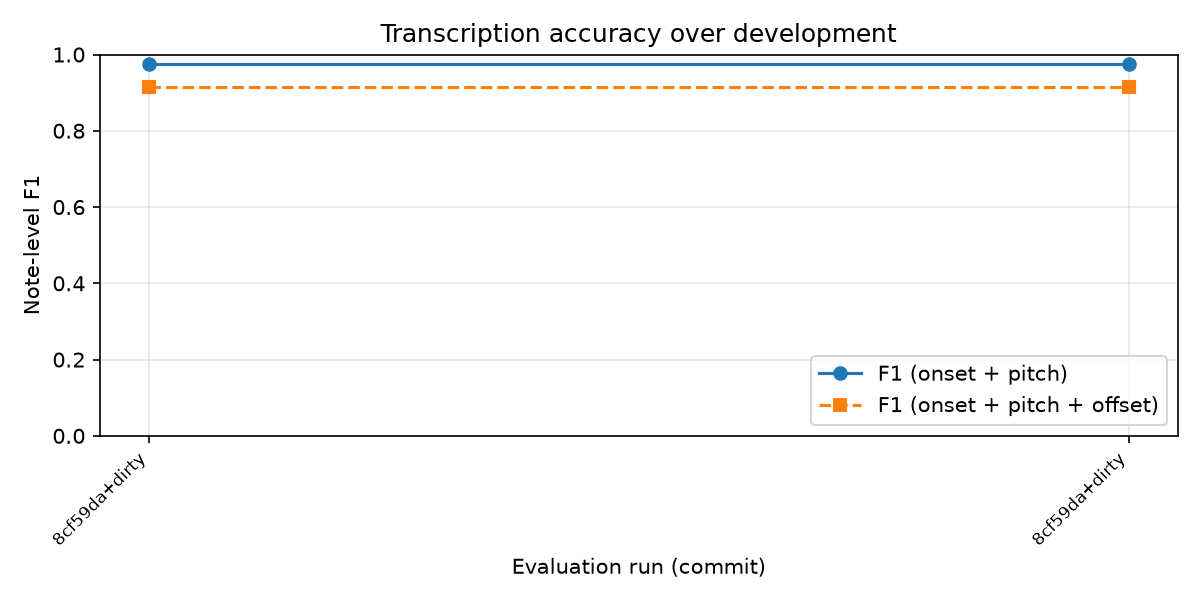
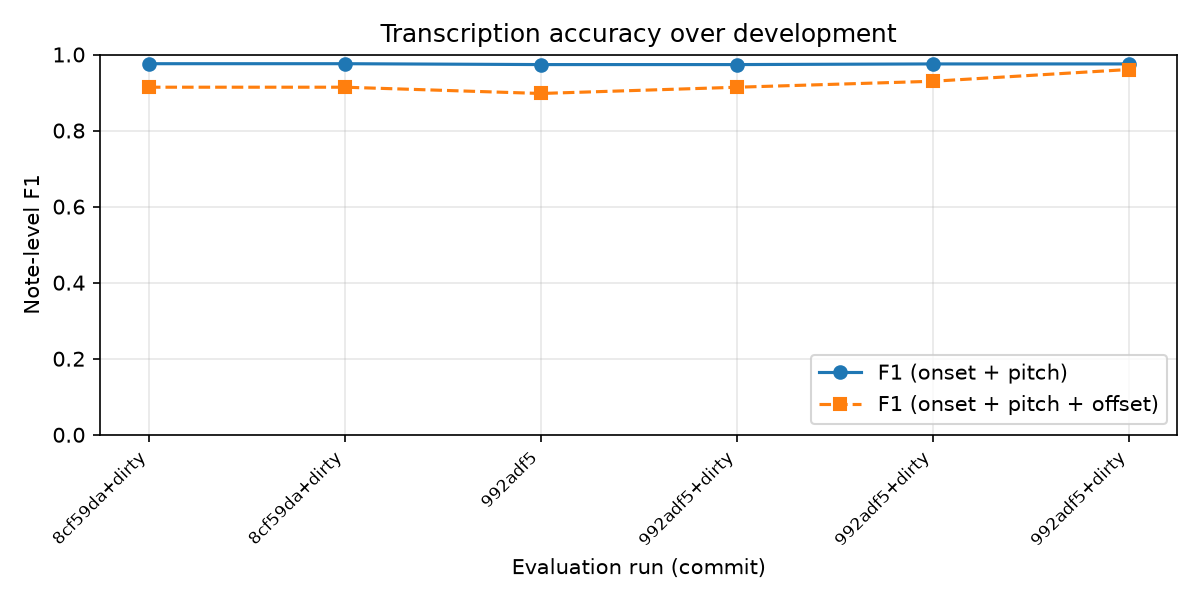
Release-based note offsets: held-out F1 0.961

diff --git a/piano-transcriber/src/pianotrans/segment.py b/piano-transcriber/src/pianotrans/segment.py
@@ -34,11 +34,41 @@ def split_at_onsets(run: tuple[int, int], onset_frames: np.ndarray,
     return list(zip(bounds[:-1], bounds[1:]))
 
 
+def find_release(start: int, end: int, rms_db: np.ndarray,
+                 slope_db: float = 3.0, ratio: float = 1.5,
+                 window: int = 4, skip: int = 9) -> int | None:
+    """Return the frame where the key was released, or None.
+
+    Release = loudness suddenly falls much FASTER than the note was already
+    fading. Comparing to the note's own recent fade means fast-decaying high
+    notes don't trigger it, but a damper cutting in does, at any pitch.
+
+    slope_db: minimum fall over the next `window` frames (dB)
+    ratio:    how many times faster than the previous `window` frames
+    skip:     frames to ignore after the start (the attack decays fast)
+    """
+    for f in range(start + max(skip, window), end - window):
+        recent = rms_db[f - window] - rms_db[f]      # fade just before f
+        now = rms_db[f] - rms_db[f + window]         # fade just after f
+        if now > slope_db and now > ratio * max(recent, 0.5):
+            return f
+    return None
+
+
 def activation_to_notes(A: np.ndarray, onset_frames: np.ndarray,
                         sr: int = SR, hop: int = HOP,
                         min_duration: float = 0.05,
-                        snap_tol: int = 3) -> list[Note]:
-    """Activation matrix -> list of Notes in SECONDS, sorted by onset."""
+                        snap_tol: int = 3,
+                        rms_db: np.ndarray | None = None,
+                        slope_db: float = 3.0,
+                        ratio: float = 1.5) -> list[Note]:
+    """Activation matrix -> list of Notes in SECONDS, sorted by onset.
+
+    rms_db: frame loudness in dB on the same frame grid (see
+    pipeline.loudness_db). If given, notes end at the detected release
+    instead of when the pitch tracker stops hearing them (which includes
+    the reverb tail).
+    """
     onset_frames = np.asarray(onset_frames)
     notes = []
 
@@ -52,6 +82,12 @@ def activation_to_notes(A: np.ndarray, onset_frames: np.ndarray,
                                       (onset_frames >= start - snap_tol)]
                 if len(before):
                     start = int(before.max())
+
+                # End at the key release rather than the end of the reverb tail
+                if rms_db is not None:
+                    release = find_release(start, end, rms_db,slope_db=slope_db, ratio=ratio)
+                    if release is not None:
+                        end = release
 
                 t_on, t_off = librosa.frames_to_time([start, end], sr=sr, hop_length=hop)
                 if t_off - t_on >= min_duration:     # drop blips

diff --git a/piano-transcriber/src/pianotrans/pipeline.py b/piano-transcriber/src/pianotrans/pipeline.py
@@ -4,8 +4,19 @@
 """
 import argparse
 
+import numpy as np
+import librosa
+
+from .config import HOP
 from .note import Note
 from . import load, pitch, tuning, onsets, segment, rhythm, notation
+
+
+def loudness_db(y: np.ndarray, hop: int = HOP) -> np.ndarray:
+    """Frame loudness in dB (RMS), on the same frame grid as everything else.
+    0 dB = the loudest frame in the file."""
+    rms = librosa.feature.rms(y=y, hop_length=hop)[0]
+    return librosa.amplitude_to_db(rms, ref=np.max)
 
 
 def transcribe(path: str) -> list[Note]:
@@ -16,7 +27,8 @@ def transcribe(path: str) -> list[Note]:
     cents = tuning.estimate_tuning(f0, voiced)
     A = pitch.f0_to_activation(f0, voiced, cents)
     onset_frames = onsets.detect_onsets(onsets.onset_envelope(y, sr), sr)
-    return segment.activation_to_notes(A, onset_frames, sr)
+    rms_db = loudness_db(y)
+    return segment.activation_to_notes(A, onset_frames, sr, rms_db=rms_db)
 
 
 def main():

diff --git a/piano-transcriber/DEVLOG.md b/piano-transcriber/DEVLOG.md
@@ -28,3 +28,8 @@ Three lines per session, max. Add entries with `python log.py` or by hand.
 - Did: first end-to-end evaluation
 - Learned: onset F1 0.976, full F1 0.914; offsets are the main weakness
 - Next: error analysis on melody_002 and 004
+
+## 2026-11-04
+- Did: fixed slope_db default override; release detection now active in evaluate.py
+- Learned: held-out F1 0.901 -> 0.961 with release detection; remaining errors are mostly extra notes (P 0.942 < R 0.981)
+- Next: attack pitch glitches / extra notes
